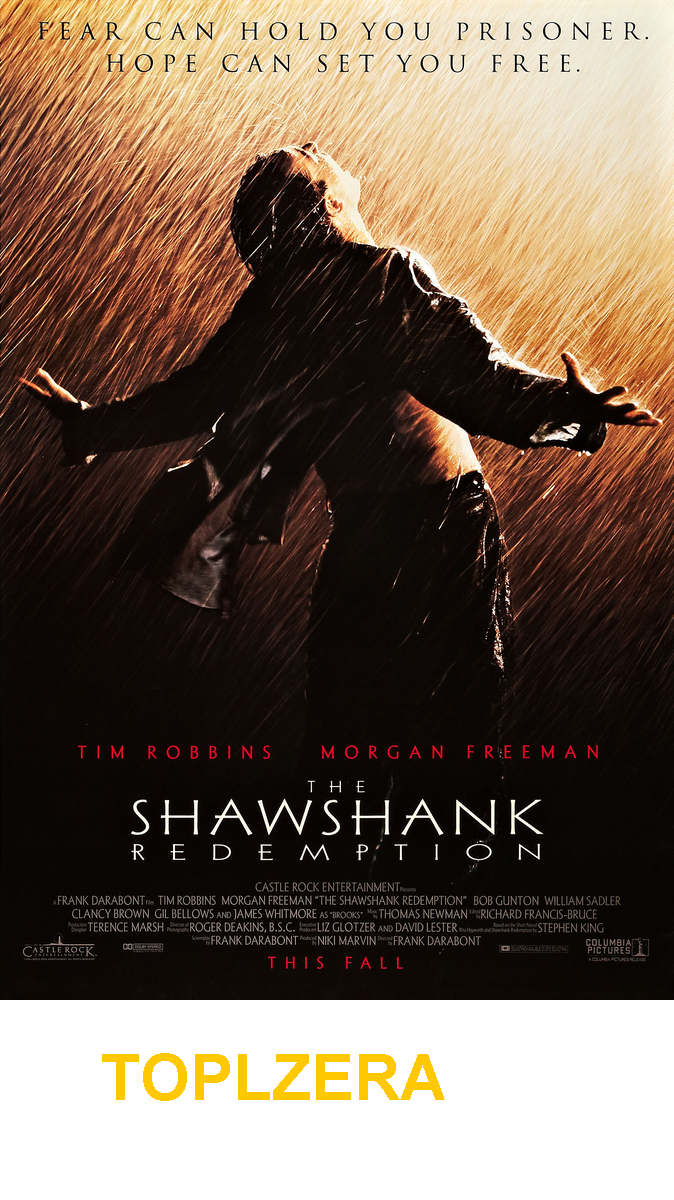
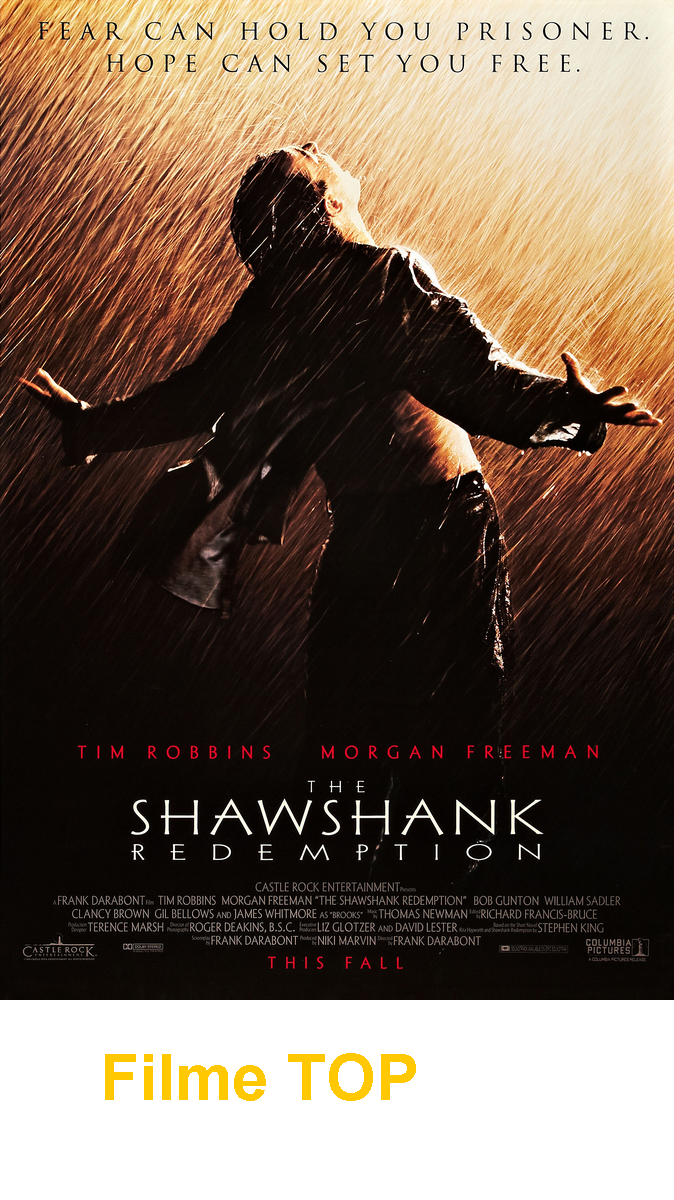
Commit adicionado corrigindo o diretorio de saida das imagens e alterando a escrita na imagem

Changed region(s): [[0.1558, 0.8633, 0.6543, 0.925]]

diff --git a/src/App.java b/src/App.java
@@ -27,7 +27,9 @@ public class App {
 
         // exibir e manipular os dados 
         var geradora = new GeradoraDeFigurinhas();
-        for (Map<String,String> filme : listaDeFilmes) {
+        for (int i = 0; i<10; i++) {
+        	
+        	Map<String,String> filme = listaDeFilmes.get(i);
 
             String urlImagem = filme.get("image");
             String titulo = filme.get("title");
@@ -36,10 +38,9 @@ public class App {
 				String nomeArquivo = "saida/" + titulo + ".png";
 
 				geradora.cria(inputStream, nomeArquivo);
-			} finally {
-				
-	            	System.out.println("Gerado com sucesso!");
 			}
+				System.out.println(titulo);
+				System.out.println();
         }
     }
 }

diff --git a/src/GeradoraDeFigurinhas.java b/src/GeradoraDeFigurinhas.java
@@ -36,7 +36,7 @@ public class GeradoraDeFigurinhas {
         graphics.setFont(fonte);
 
         // escrever uma frase na nova imagem
-        graphics.drawString("TOPLZERA", 100, novaAltura - 100);
+        graphics.drawString("Filme TOP", 100, novaAltura - 100);
 
         // escrever a nova imagem em um arquivo
         ImageIO.write(novaImagem, "png", new File(nomeArquivo));
